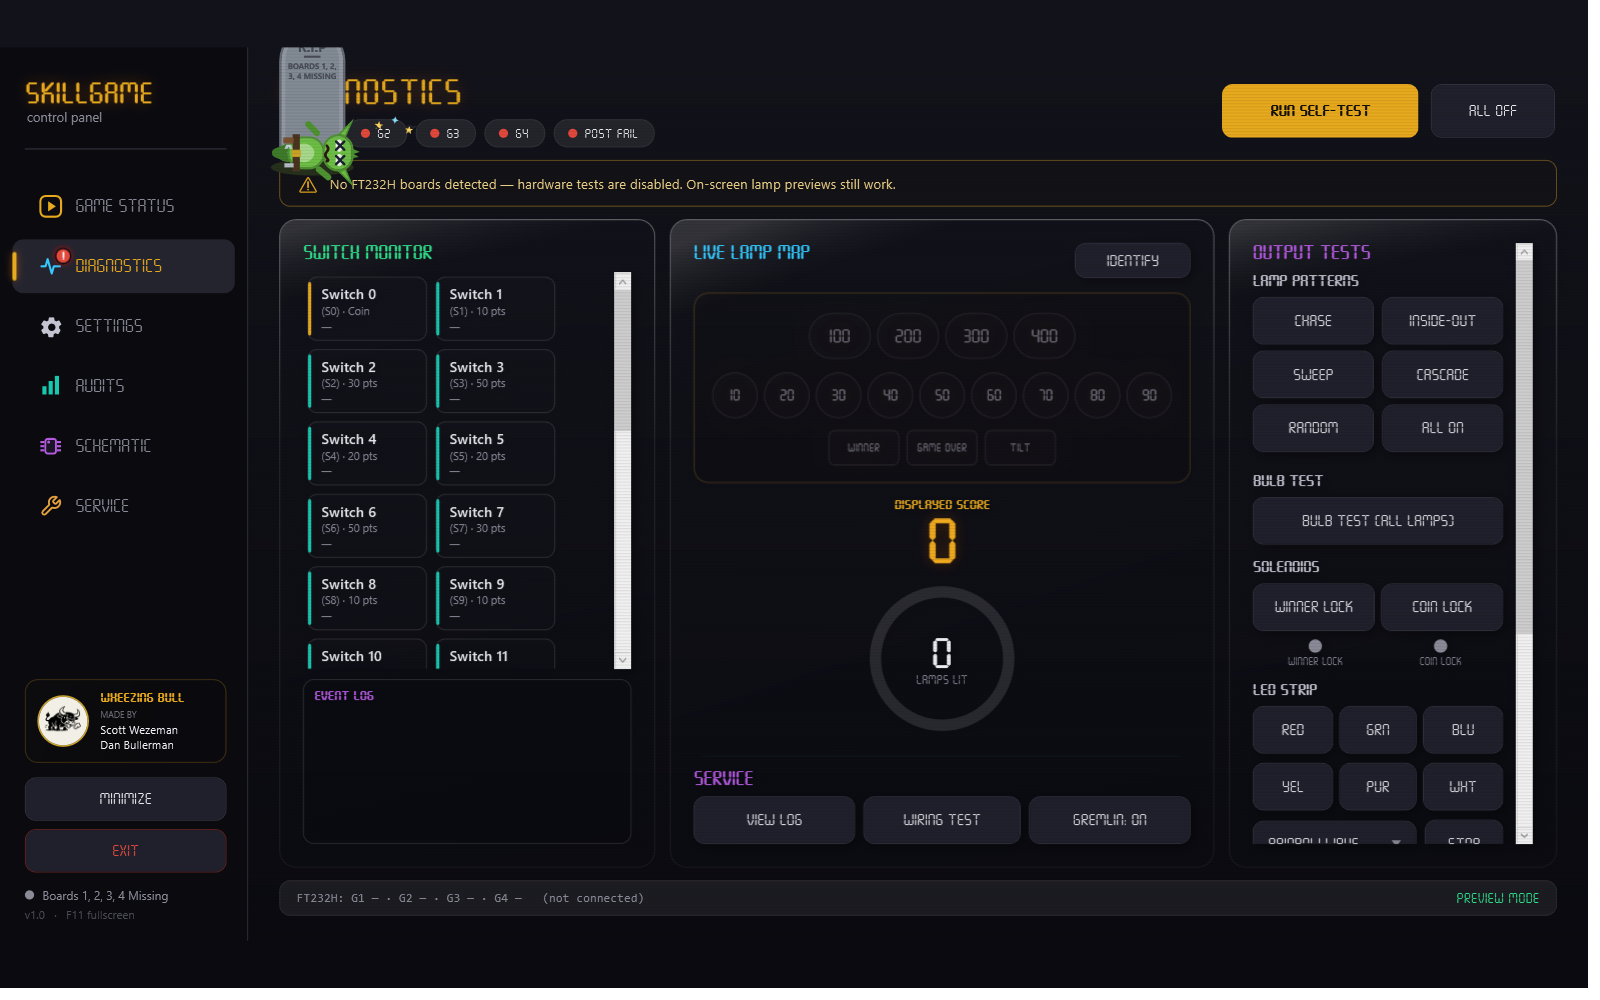
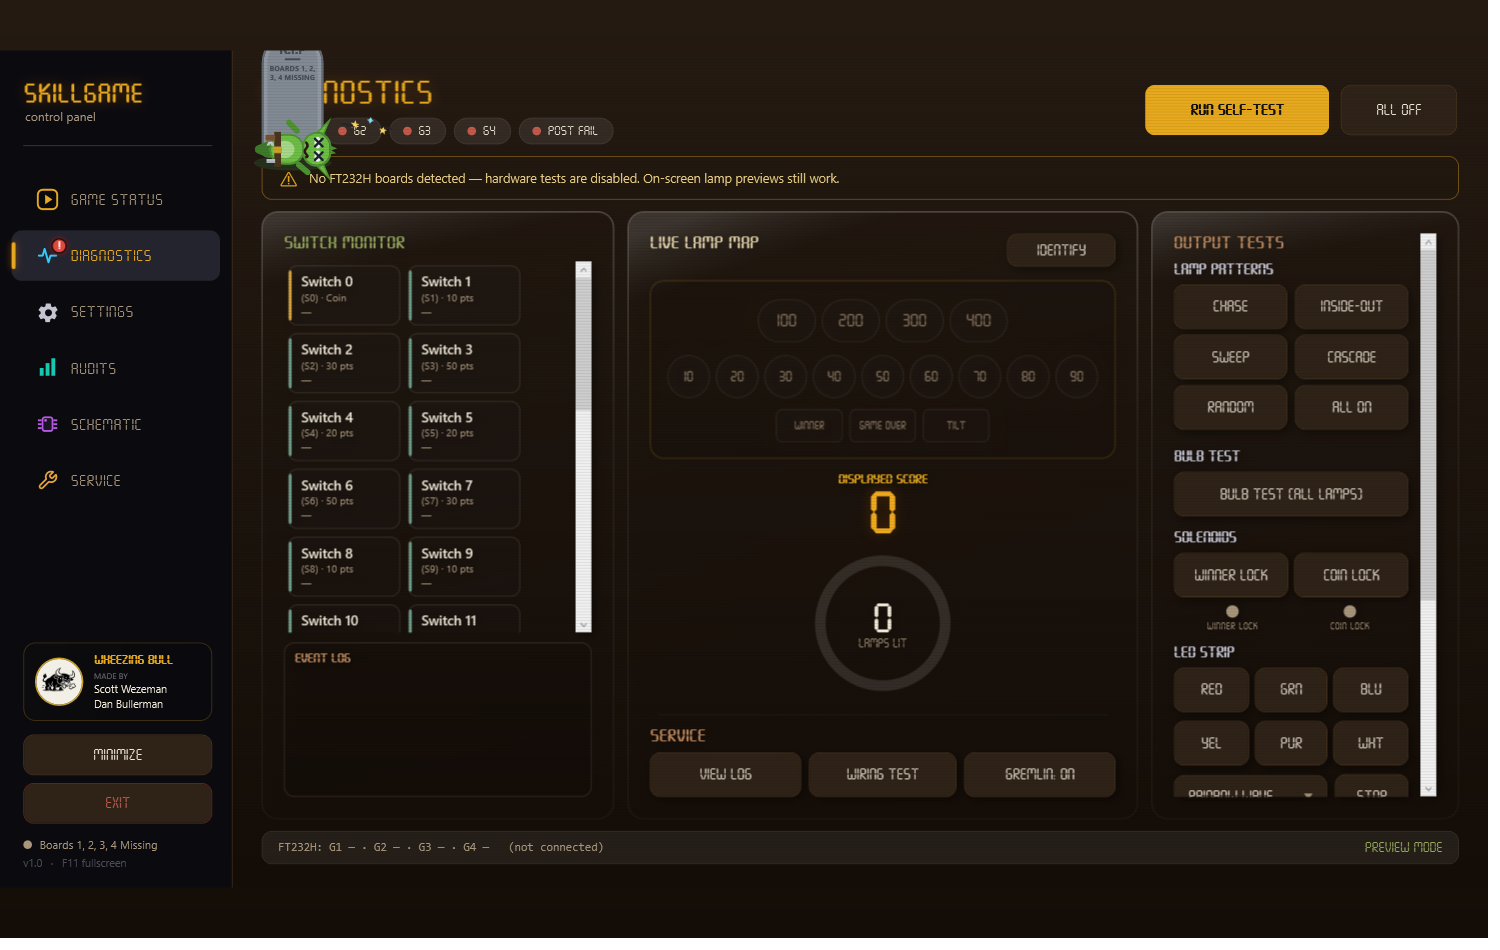
Docs: cover themes + the in-app updater; refresh screenshots to the wood look
README Features now list the 11-theme picker and the in-app updater (install
any version forward or back, no PC reboot); CHANGELOG has an Unreleased
section; Game/Schematic/Diagnostics/Service screenshots refreshed to the wood
theme + original playfield.

diff --git a/README.md b/README.md
@@ -40,6 +40,8 @@ The player rolls a physical coin up the playfield. It rides the rails, skims the
 - 🔧 **Diagnostics** — a live switch map and lamp map, a one-touch **Self-Test** that lights every lamp / pulses the coils / sweeps the LED strip, per-lamp **Identify** blink, and **stuck-switch** detection that turns a tile solid red.
 - 📊 **Audits** — plays, wins, hits, high scores and time played, watched over by the auditor gremlin. Demo/attract games are excluded, so the numbers only count real play.
 - 🛠 **Service** — a single-screen operator console for volume, quiet hours, tilt sensitivity and the rest.
+- 🎨 **11 themes** — Classy, Fun, Plain, Blackout, Vintage, Maple, Midnight, Synthwave, Lava, Circuit, Galaxy; each reskins the whole UI *and* the playfield art. (Settings → Theme)
+- ⬆ **In-app software updates** — checks the WezeBull server, shows the release notes, and installs **any** version forward or back (Service → Check for Updates); it flags new versions on boot. Updates are unzip-and-copy + relaunch — no PC reboot.
 - 🗺 **Interactive schematic page** — a clickable system diagram with crossing-free animated wiring, plus one-tap access to the BOM, fuses, system hookup, full schematic, FT232H pinout and a 3D board viewer.
 - 👻 **Attract / demo mode** — with no boards attached the app plays itself, so you can see the whole thing run on a laptop.
 - ✅ **56 unit tests** over the game core — scoring, levels, tilt, coin gate, the spring-return lock pulses, stuck detection and the switch router.

diff --git a/CHANGELOG.md b/CHANGELOG.md
@@ -3,6 +3,13 @@
 Every released version and what changed. The in-app updater (Service → Check for Updates)
 shows these notes before installing. Cut a new release with `tools/publish-update.ps1`.
 
+## Unreleased
+- **11 UI themes** (Settings → Theme): Classy, Fun, Plain, Blackout, Vintage, Maple, Midnight, Synthwave, Lava, Circuit, Galaxy — each reskins the whole UI and the playfield art.
+- **Original wood playfield** replaces the Bally artwork (same rail/hole layout, so coin paths are unchanged).
+- **Updater hardened** — unzip + copy + relaunch only; no PC reboot and no temp script (that pattern tripped endpoint security).
+- **Install any version** — the updater lists every release and installs forward or back, with the latest tagged; auto-checks on boot + every 6 h.
+- Marquee is warm maple instead of the rainbow; "Roll · Climb · Win" subtitle.
+
 ## v1.0.1 — 2026-10-01
 **New**
 - In-app software updates: check the WezeBull server, see what changed, install with one tap; the machine swaps the files and restarts itself.
